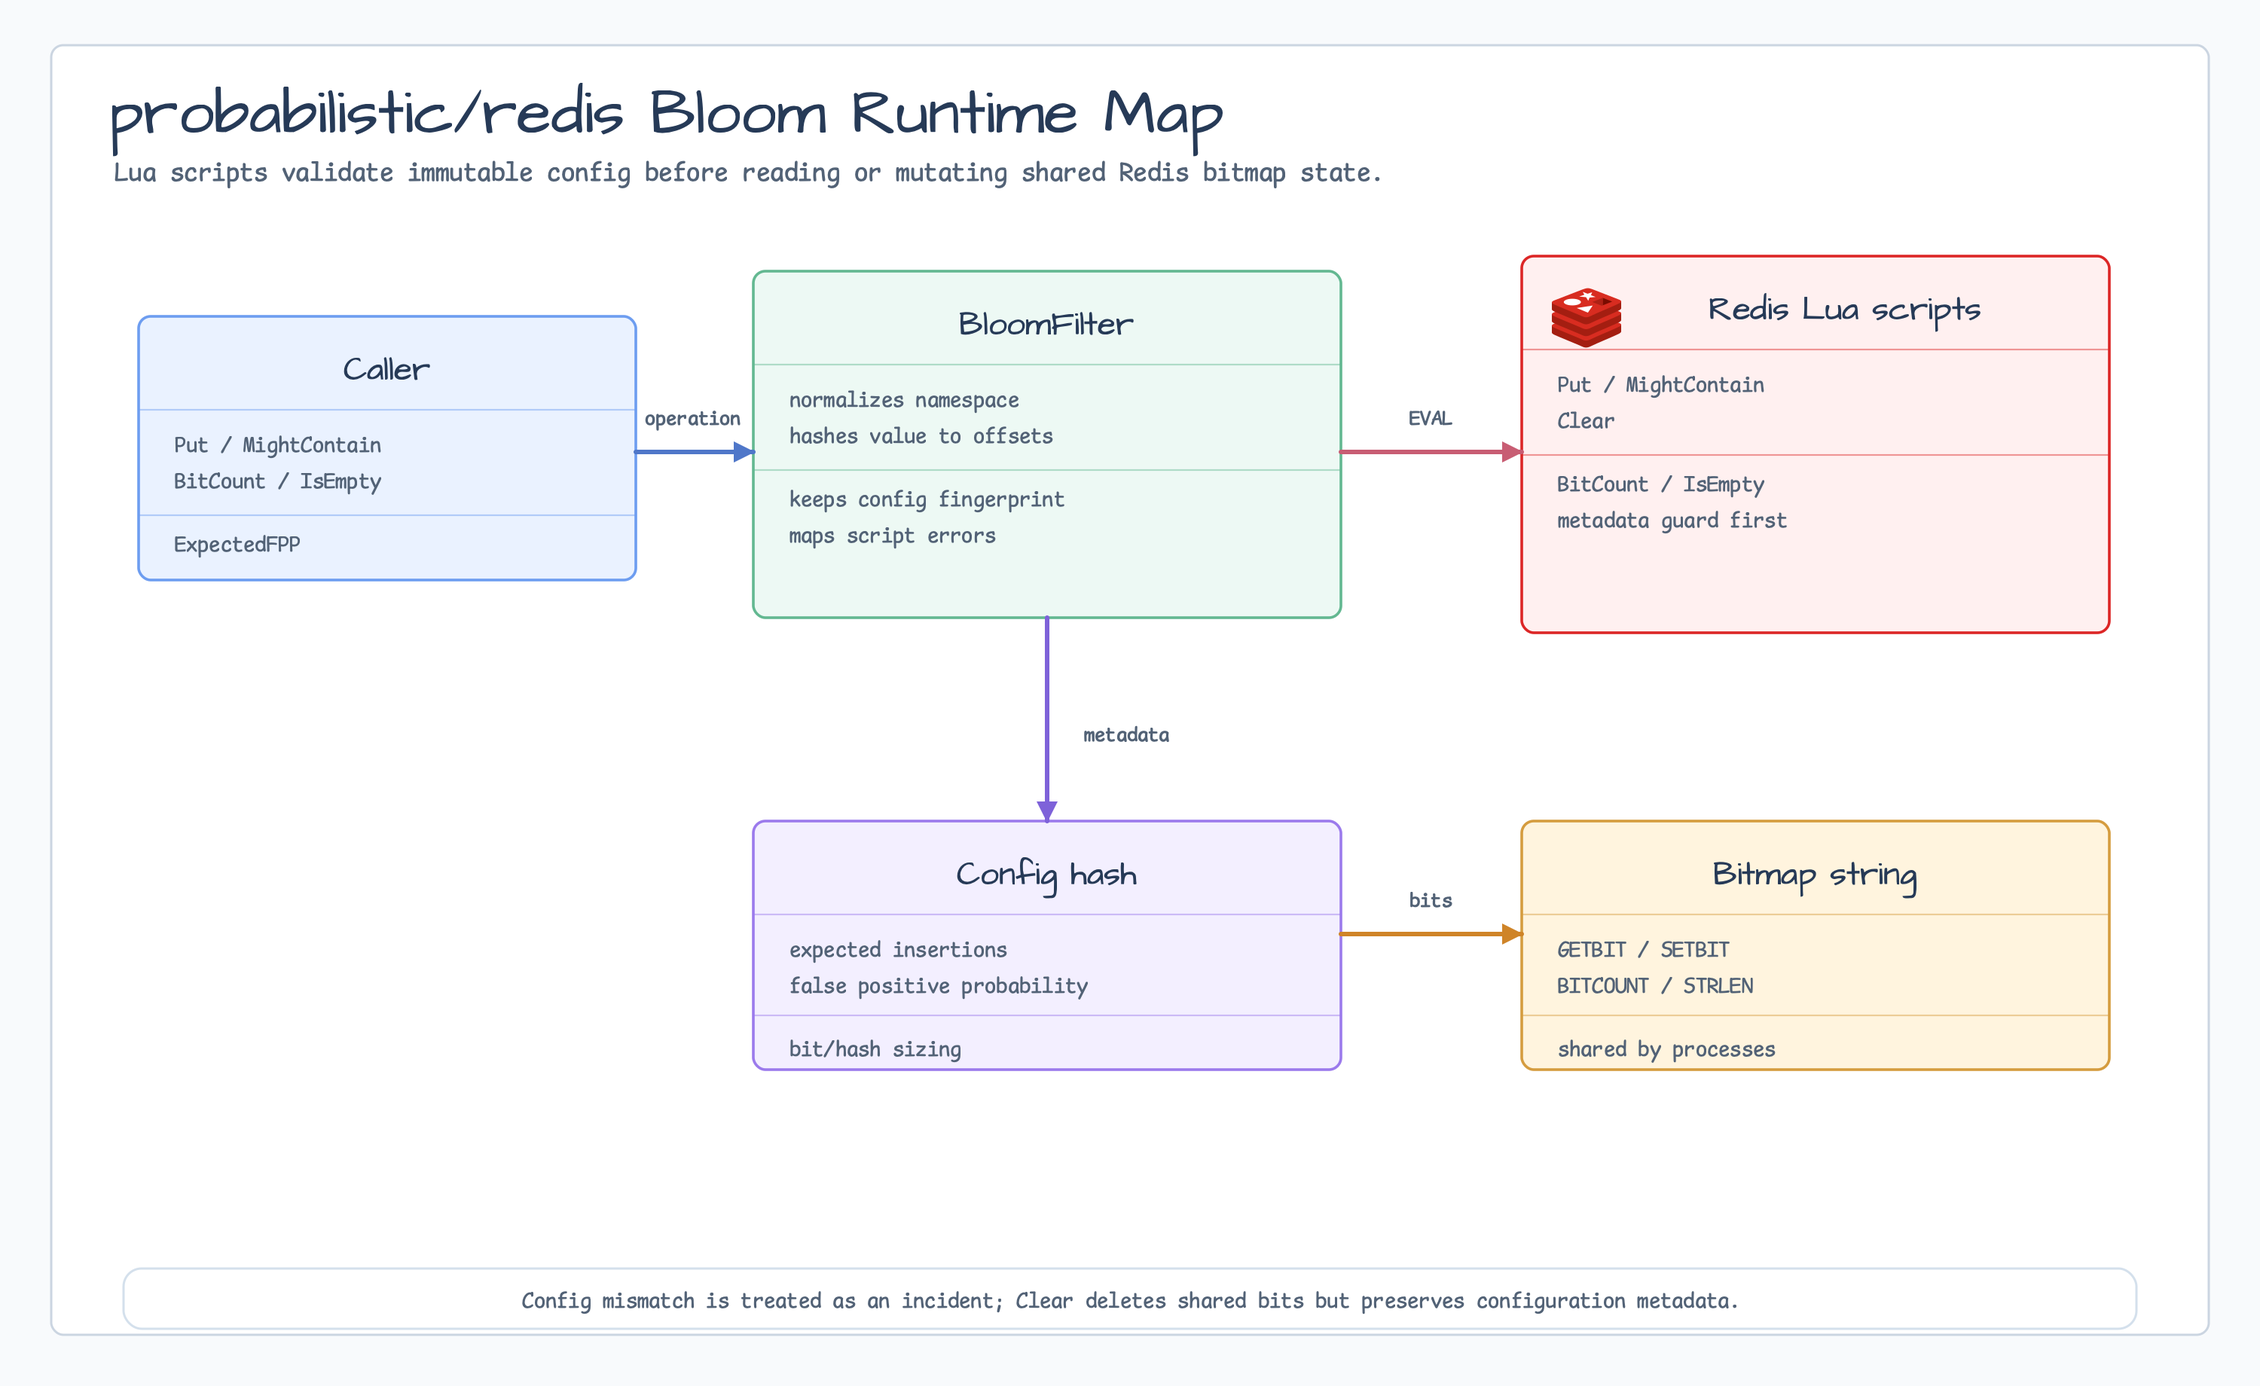
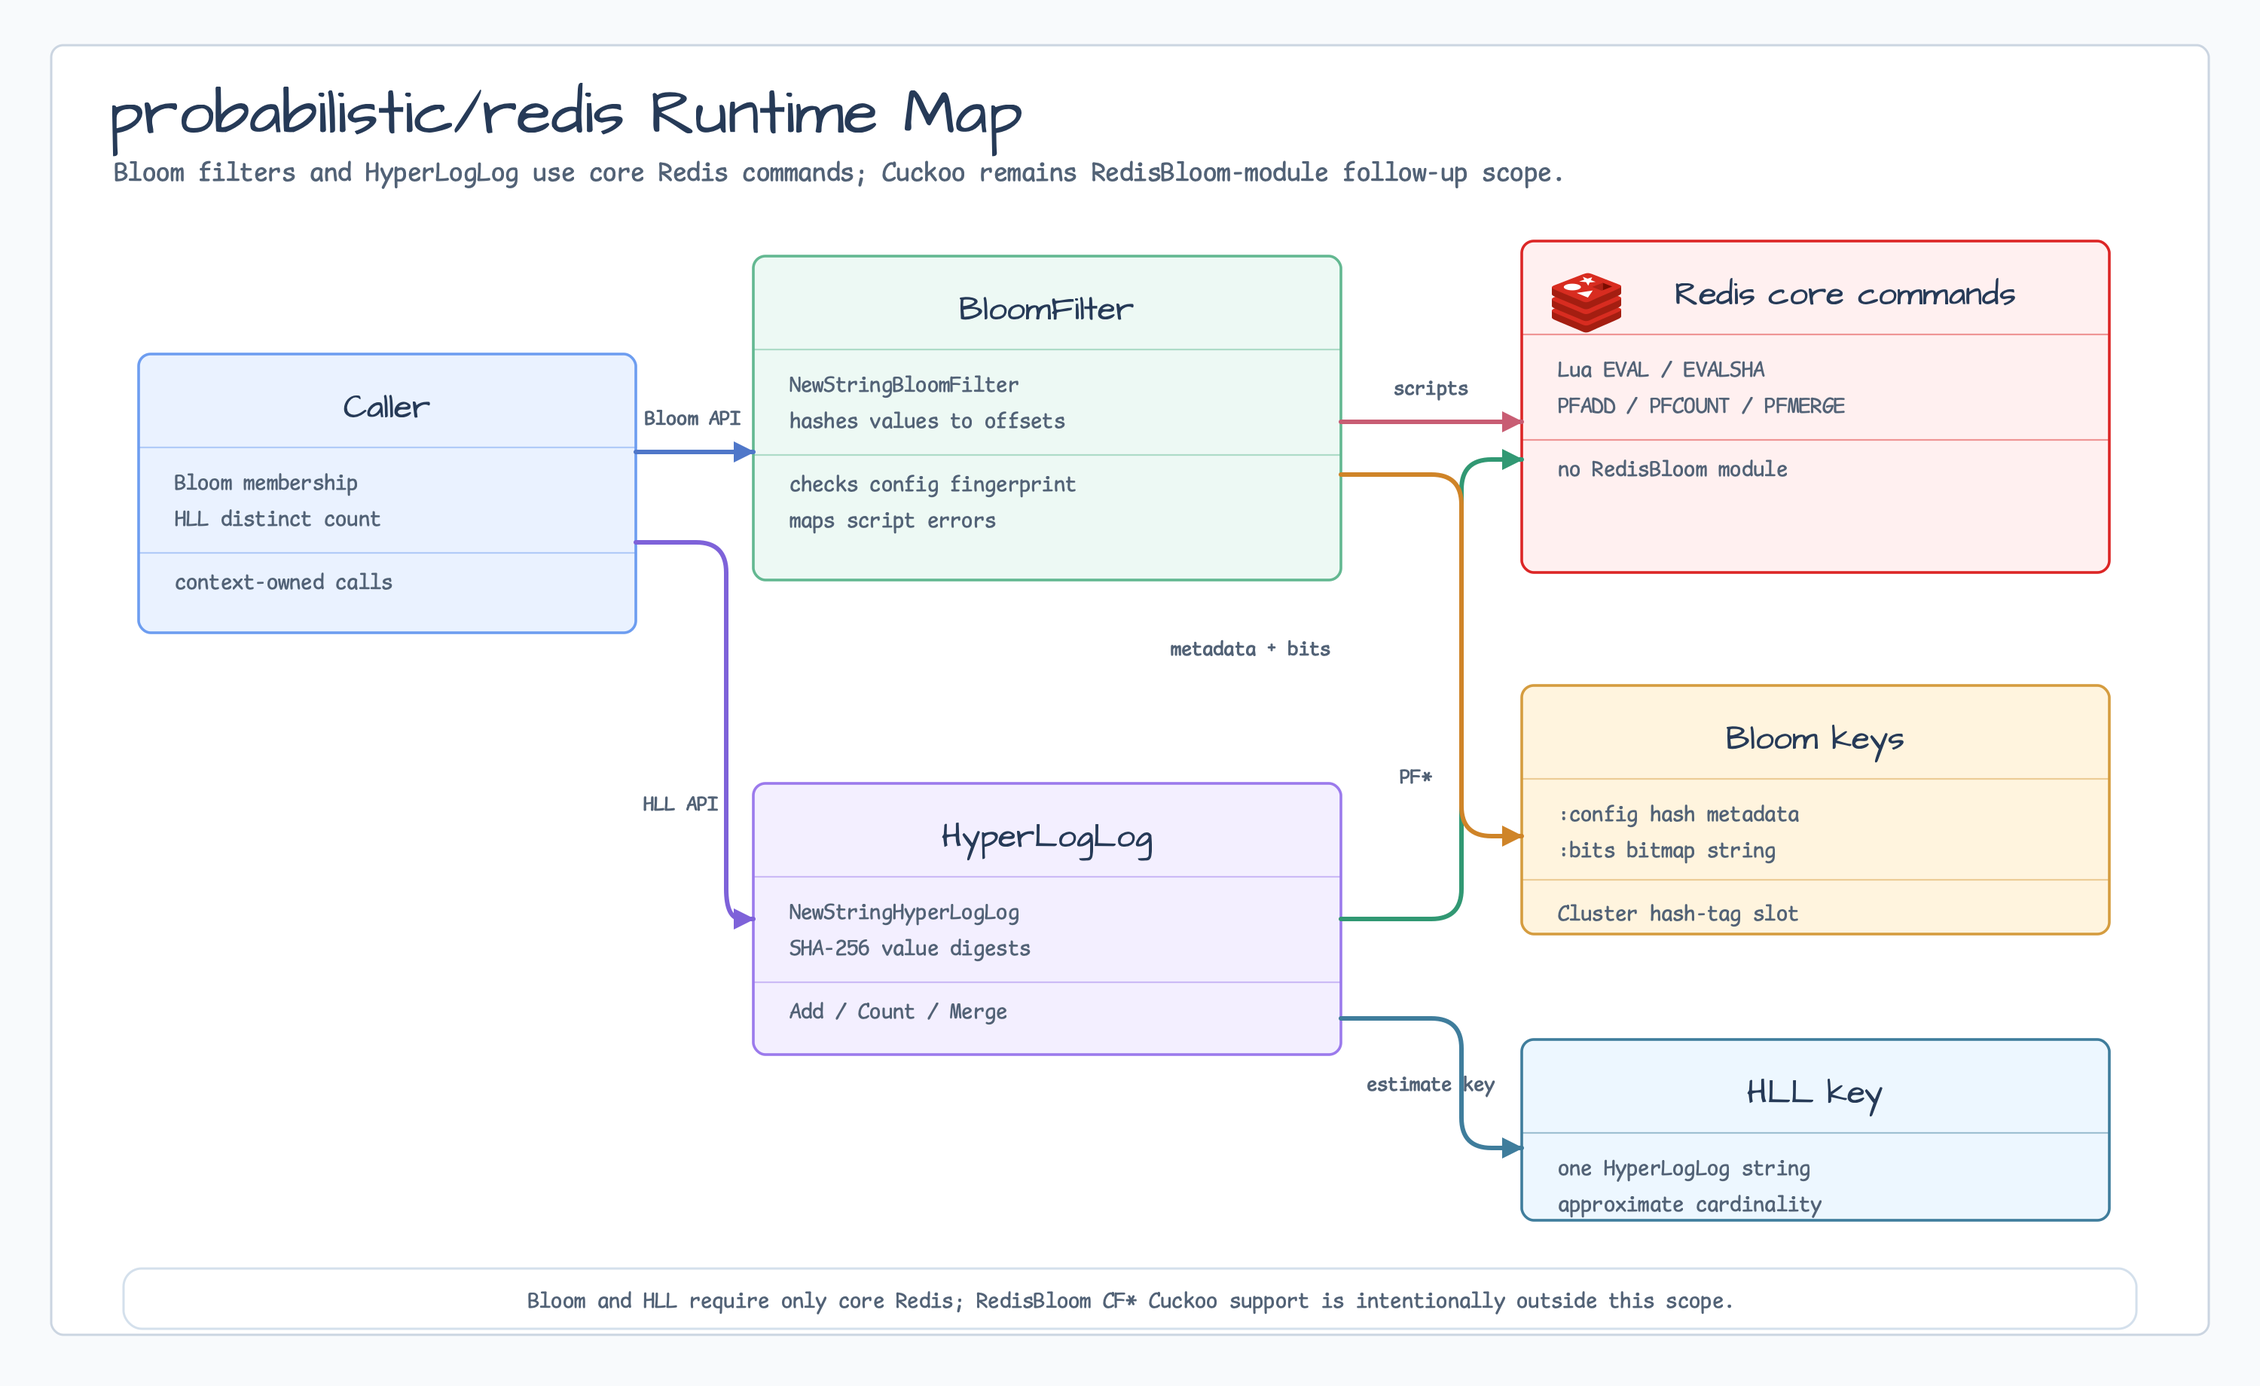
docs: clarify Redis probabilistic runtime assumptions (#471)
## Summary

- Document the implemented Redis assumptions for `probabilistic/redis`
Bloom filters and HyperLogLog in English and Korean READMEs.
- Refresh the runtime diagram so it shows Bloom, HLL, core Redis
commands, Bloom keys, HLL key, and RedisBloom `CF*` Cuckoo as follow-up
scope.
- Add review and lesson records with the updated `$bluetape4k-diagram`
audit and eye-check evidence.

Fixes #413

## Validation

- `xmllint --noout
docs/images/readme-diagrams/probabilistic-redis-bloom-runtime.svg`
- `/Users/debop/.local/bin/cairosvg
docs/images/readme-diagrams/probabilistic-redis-bloom-runtime.svg -o
docs/images/readme-diagrams/probabilistic-redis-bloom-runtime.png -s 2`
- `python3
/Users/debop/.codex/skills/bluetape4k-diagram/references/diagram-connector-audit.py
docs/images/readme-diagrams/probabilistic-redis-bloom-runtime.svg`
- `python3
/Users/debop/.codex/skills/bluetape4k-diagram/references/diagram-geometry-audit.py
--fail-diagonal
docs/images/readme-diagrams/probabilistic-redis-bloom-runtime.svg`
- `python3
/Users/debop/.codex/skills/bluetape4k-diagram/references/diagram-endpoint-audit.py
docs/images/readme-diagrams/probabilistic-redis-bloom-runtime.svg`
- `python3
/Users/debop/.codex/skills/bluetape4k-diagram/references/diagram-mixed-corner-audit.py
docs/images/readme-diagrams/probabilistic-redis-bloom-runtime.svg`
- Full-size PNG eye check: PASS, all labels readable, connectors attach
to card edges, no card/text/connector overlap observed.
- `git diff --check`
[…]

diff --git a/scripts/generate-redis-readme-diagrams.py b/scripts/generate-redis-readme-diagrams.py
@@ -511,22 +511,25 @@ def build_static() -> None:
     )
     static_diagram(
         "probabilistic-redis-bloom-runtime",
-        "probabilistic/redis Bloom Runtime Map",
-        "Lua scripts validate immutable config before reading or mutating shared Redis bitmap state.",
+        "probabilistic/redis Runtime Map",
+        "Bloom filters and HyperLogLog use core Redis commands; Cuckoo remains RedisBloom-module follow-up scope.",
         [
-            dict(x=92, y=210, w=330, h=175, title="Caller", body=["Put / MightContain", "BitCount / IsEmpty", "ExpectedFPP"], fill="#eaf2ff", stroke="#6d9df0"),
-            dict(x=500, y=180, w=390, h=230, title="BloomFilter", body=["normalizes namespace", "hashes value to offsets", "keeps config fingerprint", "maps script errors"], fill="#edf9f4", stroke="#63b891"),
-            dict(x=1010, y=170, w=390, h=250, title="Redis Lua scripts", body=["Put / MightContain", "Clear", "BitCount / IsEmpty", "metadata guard first"], fill="#fff0f0", stroke="#dc2626", icon="redis"),
-            dict(x=500, y=545, w=390, h=165, title="Config hash", body=["expected insertions", "false positive probability", "bit/hash sizing"], fill="#f3efff", stroke="#9b7aec"),
-            dict(x=1010, y=545, w=390, h=165, title="Bitmap string", body=["GETBIT / SETBIT", "BITCOUNT / STRLEN", "shared by processes"], fill="#fff4de", stroke="#d59c3f"),
+            dict(x=92, y=235, w=330, h=185, title="Caller", body=["Bloom membership", "HLL distinct count", "context-owned calls"], fill="#eaf2ff", stroke="#6d9df0"),
+            dict(x=500, y=170, w=390, h=215, title="BloomFilter", body=["NewStringBloomFilter", "hashes values to offsets", "checks config fingerprint", "maps script errors"], fill="#edf9f4", stroke="#63b891"),
+            dict(x=500, y=520, w=390, h=180, title="HyperLogLog", body=["NewStringHyperLogLog", "SHA-256 value digests", "Add / Count / Merge"], fill="#f3efff", stroke="#9b7aec"),
+            dict(x=1010, y=160, w=390, h=220, title="Redis core commands", body=["Lua EVAL / EVALSHA", "PFADD / PFCOUNT / PFMERGE", "no RedisBloom module"], fill="#fff0f0", stroke="#dc2626", icon="redis"),
+            dict(x=1010, y=455, w=390, h=165, title="Bloom keys", body=[":config hash metadata", ":bits bitmap string", "Cluster hash-tag slot"], fill="#fff4de", stroke="#d59c3f"),
+            dict(x=1010, y=690, w=390, h=120, title="HLL key", body=["one HyperLogLog string", "approximate cardinality"], fill="#edf7ff", stroke="#3f7d9c"),
         ],
         [
-            dict(d="M422 300H500", color=COLORS["blue"], marker="arrow-blue", label="operation", lx=460, ly=282),
-            dict(d="M890 300H1010", color=COLORS["red"], marker="arrow-red", label="EVAL", lx=950, ly=282),
-            dict(d="M695 410V545", color=COLORS["purple"], marker="arrow-purple", label="metadata", lx=748, ly=492),
-            dict(d="M890 620H1010", color=COLORS["amber"], marker="arrow-amber", label="bits", lx=950, ly=602),
+            dict(d="M422 300H500", color=COLORS["blue"], marker="arrow-blue", label="Bloom API", lx=460, ly=282),
+            dict(d="M422 360H462Q482 360 482 380V590Q482 610 492 610H500", color=COLORS["purple"], marker="arrow-purple", label="HLL API", lx=452, ly=538),
+            dict(d="M890 280H1010", color=COLORS["red"], marker="arrow-red", label="scripts", lx=950, ly=262),
+            dict(d="M890 610H950Q970 610 970 590V325Q970 305 990 305H1010", color=COLORS["green"], marker="arrow-green", label="PF*", lx=940, ly=520),
+            dict(d="M890 315H950Q970 315 970 335V535Q970 555 990 555H1010", color=COLORS["amber"], marker="arrow-amber", label="metadata + bits", lx=830, ly=435),
+            dict(d="M890 676H950Q970 676 970 696V742Q970 762 990 762H1010", color=COLORS["teal"], marker="arrow-teal", label="estimate key", lx=950, ly=724),
         ],
-        "Config mismatch is treated as an incident; Clear deletes shared bits but preserves configuration metadata.",
+        "Bloom and HLL require only core Redis; RedisBloom CF* Cuckoo support is intentionally outside this scope.",
     )
     static_diagram(
         "redis-leader-election-lifecycle",

diff --git a/docs/review/2026-07-08-issue-413-redis-assumptions-review.md b/docs/review/2026-07-08-issue-413-redis-assumptions-review.md
@@ -1,0 +1,46 @@
+# Issue #413 Redis Probabilistic Assumptions Review
+
+P0=0 P1=0
+
+## Scope
+
+- Issue: #413, document Redis probabilistic structure assumptions.
+- Branch: `issue-413-redis-assumptions`
+- Baseline: `d8c01f1`
+- Files: `probabilistic/redis/README.md`, `probabilistic/redis/README.ko.md`,
+  `scripts/generate-redis-readme-diagrams.py`, and
+  `docs/images/readme-diagrams/probabilistic-redis-bloom-runtime.{svg,png}`.
+
+## Findings
+
+| Lane | Verdict | Evidence |
+|---|---|---|
+| Performance | PASS | Docs-only/runtime-diagram change. No production code path changed. P0=0 P1=0. |
+| Stability | PASS | README now states Bloom config metadata immutability, namespace rebuild requirements, and HLL approximate-count limits. P0=0 P1=0. |
+| Security | PASS | Namespace guidance continues to reject raw user IDs, secrets, credentials, and API keys. No credential or ACL behavior changed. P0=0 P1=0. |
+| Operator/Ops | PASS | Docs now name Redis `redis:7.4-alpine`, Lua/hash/bitmap/HLL command requirements, Cuckoo RedisBloom follow-up scope, and concrete diagnostic commands. P0=0 P1=0. |
+| Developer/API | PASS | Guidance links assumptions to current exported APIs: `NewStringBloomFilter`, `NewBytesBloomFilter`, `NewHyperLogLog`, `NewStringHyperLogLog`, and `NewBytesHyperLogLog`. P0=0 P1=0. |
+| User/Caller | PASS | English and Korean README updates are synchronized and distinguish Bloom membership from HLL approximate distinct count. P0=0 P1=0. |
+| Integration | PASS | Diagram and docs match the implemented Redis test/API surface; no RedisBloom `CF*` API is documented as available. P0=0 P1=0. |
+
+## Diagram Evidence
+
+| Gate | Evidence | Result |
+|---|---|---|
+| Related-set scan | `rg -n "Redis Assumptions|Redis 가정|RedisBloom module|CF\\.ADD|NewStringHyperLogLog|NewStringBloomFilter|redis:7\\.4-alpine|probabilistic redis runtime map" ...` | README, source, tests, generator, and SVG align with #413 scope. |
+| XML parse | `xmllint --noout docs/images/readme-diagrams/probabilistic-redis-bloom-runtime.svg` | PASS |
+| PNG render | `/Users/debop/.local/bin/cairosvg docs/images/readme-diagrams/probabilistic-redis-bloom-runtime.svg -o docs/images/readme-diagrams/probabilistic-redis-bloom-runtime.png -s 2` | PASS |
+| PNG dimensions | `file ... && sips -g pixelWidth -g pixelHeight ...` | PASS, `3000 x 1840` |
+| Connector audit | `diagram-connector-audit.py docs/images/readme-diagrams/probabilistic-redis-bloom-runtime.svg` | PASS, `markers=7 connectors=6 cards=6 intrusions=0 crossings=0` |
+| Geometry audit | `diagram-geometry-audit.py --fail-diagonal docs/images/readme-diagrams/probabilistic-redis-bloom-runtime.svg` | PASS, `geometry_failures=0` |
+| Endpoint audit | `diagram-endpoint-audit.py docs/images/readme-diagrams/probabilistic-redis-bloom-runtime.svg` | PASS |
+| Mixed-corner audit | `diagram-mixed-corner-audit.py docs/images/readme-diagrams/probabilistic-redis-bloom-runtime.svg` | PASS, `paths=6 q_bends=8 failures=0` |
+| Full-size eye check | Visual inspection of rendered PNG after final coordinate fix. | PASS, all labels readable, connectors attach to card edges, no text/card/connector overlap observed. |
+
+## Validation
+
+- `git diff --check`
+- `go test -run Example -count=1 ./probabilistic/redis`
+- `go test -count=1 ./probabilistic/redis`
+
+Final verdict: PASS. `P0=0 P1=0`.

diff --git a/probabilistic/redis/README.ko.md b/probabilistic/redis/README.ko.md
@@ -8,7 +8,7 @@ metadata에 immutable하게 보관하고, 모든 read/mutation 전에 Lua script
 검증하며, shared bit는 Redis bitmap string에 저장합니다. HyperLogLog는 core Redis
 `PFADD`, `PFCOUNT`, `PFMERGE` command를 사용합니다.
 
-![probabilistic redis bloom runtime](../../docs/images/readme-diagrams/probabilistic-redis-bloom-runtime.png)
+![probabilistic redis runtime map](../../docs/images/readme-diagrams/probabilistic-redis-bloom-runtime.png)
 
 ## 가져오기
 
@@ -88,6 +88,25 @@ bluetape:probabilistic:hll:v1:{namespace}
 Namespace는 안정적인 운영 식별자여야 합니다. Raw user ID, email, token, secret,
 password, credential, API key를 namespace에 넣지 마세요.
 
+## Redis 가정
+
+- 현재 Bloom과 HyperLogLog surface는 ordinary Redis command만 사용합니다.
+  `NewStringBloomFilter`, `NewBytesBloomFilter`, `NewHyperLogLog`,
+  `NewStringHyperLogLog`, `NewBytesHyperLogLog`에는 RedisBloom module이
+  필요하지 않습니다.
+- Testcontainers suite는 Redis `redis:7.4-alpine`에서 실행합니다. Production
+  Redis도 여기서 쓰는 core command family를 제공해야 합니다. Lua script 실행,
+  hash/string bitmap command, HyperLogLog command가 필요합니다.
+- `CF.ADD`, `CF.EXISTS` 같은 RedisBloom module `CF*` Cuckoo command는 아직
+  이 package 범위가 아닙니다. Module availability, ACL, persistence,
+  Testcontainers coverage가 명확해질 때까지 후속 범위로 둡니다.
+- Bloom capacity는 `probabilistic.Config`가 고정합니다.
+  `ExpectedInsertions`, `FalsePositiveProbability`, bit size, hash count,
+  hasher key는 namespace의 immutable Redis metadata가 됩니다. 값을 바꾸려면
+  새 namespace와 rebuild가 필요합니다.
+- HyperLogLog capacity와 error rate는 Redis가 소유합니다. Membership check나
+  duplicate certainty가 아니라 approximate distinct count가 필요할 때 선택하세요.
+
 ## 동작
 
 - `MightContain(ctx, value) == false`는 값이 확실히 없다는 뜻입니다.
@@ -116,6 +135,17 @@ password, credential, API key를 namespace에 넣지 마세요.
   rebuild하고 reader를 검증한 뒤, 새 namespace가 승인된 후에만 old key를 정리합니다.
 - HyperLogLog key도 ordinary Redis key입니다. Persistence, eviction, ACL, backup
   policy는 caller 책임입니다.
+
+Diagnostic check는 보통 관련 key family에서 시작합니다.
+
+```text
+HGETALL bluetape:probabilistic:bloom:v1:{namespace}:config
+STRLEN  bluetape:probabilistic:bloom:v1:{namespace}:bits
+BITCOUNT bluetape:probabilistic:bloom:v1:{namespace}:bits
+PFCOUNT bluetape:probabilistic:hll:v1:{namespace}
+EXISTS  bluetape:probabilistic:hll:v1:{namespace}
+PTTL    bluetape:probabilistic:hll:v1:{namespace}
+```
 
 ## 테스트
 

diff --git a/probabilistic/redis/README.md b/probabilistic/redis/README.md
@@ -8,7 +8,7 @@ Redis metadata, validate that metadata through Lua scripts before every read or
 mutation, and store shared bits in a Redis bitmap string. HyperLogLog uses core
 Redis `PFADD`, `PFCOUNT`, and `PFMERGE` commands.
 
-![probabilistic redis bloom runtime](../../docs/images/readme-diagrams/probabilistic-redis-bloom-runtime.png)
+![probabilistic redis runtime map](../../docs/images/readme-diagrams/probabilistic-redis-bloom-runtime.png)
 
 ## Import
 
@@ -88,6 +88,26 @@ bluetape:probabilistic:hll:v1:{namespace}
 Namespaces must be stable operational identifiers. Do not place raw user IDs,
 emails, tokens, secrets, passwords, credentials, or API keys in namespaces.
 
+## Redis Assumptions
+
+- The current Bloom and HyperLogLog surfaces use ordinary Redis commands only.
+  No RedisBloom module is required for `NewStringBloomFilter`,
+  `NewBytesBloomFilter`, `NewHyperLogLog`, `NewStringHyperLogLog`, or
+  `NewBytesHyperLogLog`.
+- The Testcontainers suite runs against Redis `redis:7.4-alpine`; production
+  deployments should provide the same core command families used here: Lua
+  script execution, hash/string bitmap commands, and HyperLogLog commands.
+- RedisBloom module commands such as `CF.ADD`, `CF.EXISTS`, and other `CF*`
+  Cuckoo operations are intentionally not part of this package yet. They remain
+  follow-up scope until module availability, ACL, persistence, and
+  Testcontainers coverage are explicit.
+- Bloom capacity is fixed by `probabilistic.Config`: `ExpectedInsertions`,
+  `FalsePositiveProbability`, bit size, hash count, and the hasher key become
+  immutable Redis metadata for the namespace. Changing those values requires a
+  new namespace and rebuild.
+- HyperLogLog capacity and error rate are Redis-owned. Callers choose it for
+  approximate distinct counts, not membership checks or duplicate certainty.
+
 ## Behavior
 
 - `MightContain(ctx, value) == false` means the value is definitely absent.
@@ -117,6 +137,17 @@ emails, tokens, secrets, passwords, credentials, or API keys in namespaces.
   after the new namespace is accepted.
 - HyperLogLog keys are ordinary Redis keys. Caller-owned persistence, eviction,
   ACL, and backup policy still apply.
+
+Diagnostic checks normally start with the concrete key family involved:
+
+```text
+HGETALL bluetape:probabilistic:bloom:v1:{namespace}:config
+STRLEN  bluetape:probabilistic:bloom:v1:{namespace}:bits
+BITCOUNT bluetape:probabilistic:bloom:v1:{namespace}:bits
+PFCOUNT bluetape:probabilistic:hll:v1:{namespace}
+EXISTS  bluetape:probabilistic:hll:v1:{namespace}
+PTTL    bluetape:probabilistic:hll:v1:{namespace}
+```
 
 ## Test
 

diff --git a/docs/lessons/2026-07-08-issue-413-redis-assumptions.md b/docs/lessons/2026-07-08-issue-413-redis-assumptions.md
@@ -1,0 +1,14 @@
+# Lesson: Redis Probabilistic Assumption Docs
+
+When Redis probabilistic README diagrams are refreshed, describe the implemented
+Redis command contract explicitly instead of implying a Redis module dependency.
+
+- Bloom and HyperLogLog currently use core Redis commands only. Cuckoo `CF*`
+  commands should stay documented as follow-up scope until the module,
+  persistence, ACL, and Testcontainers contracts exist.
+- Package README guidance should name the exported constructors that inherit the
+  assumption, then tie operator requirements to the same Redis image used by
+  package tests.
+- A diagram can pass connector audits while still looking visually weak. Run the
+  full-size PNG eye check after coordinate changes and make sure every connector
+  visibly starts and ends at the intended card boundary.
